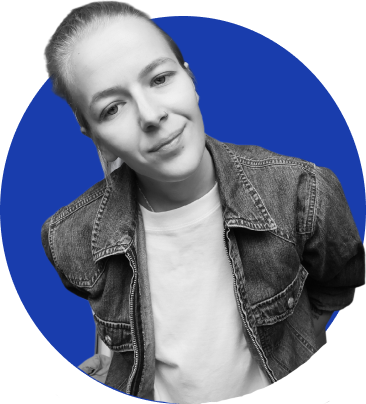
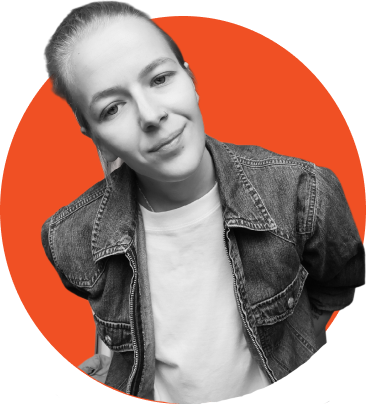
all theme

diff --git a/css/style.css b/css/style.css
@@ -16,8 +16,8 @@
 }
 
 html, body { 
-  background-color: #1B262C; 
-  color: #fff;
+  background-color: #f5f5f5; 
+  color: #343434;
   line-height: 1.6;  
   font-family: 'Exo 2', sans-serif;
 }
@@ -53,12 +53,13 @@ nav .mainMenu li a {
   padding: 20px;
   text-decoration: none;
   text-transform: uppercase;
-  color: #fff;
+  color: #343434;
   font-size: 16px;
+  font-weight: 600;
 }
 
 nav .mainMenu li a:hover{
-  color: #193DAD;
+  color: #F64E20;
   font-family: 'Exo 2', sans-serif;
   font-weight: 600;
   font-size: 20px;
@@ -94,7 +95,7 @@ nav .logo h3{
 
 /* Header */
 .hero {
-  background-color: #1B262C;
+  background-color: #f5f5f5;
   background-position: center;
   background-repeat: no-repeat;
   background-size: cover;
@@ -119,7 +120,7 @@ nav .logo h3{
 .content h1 {
   font-size: 60px;
   font-weight: 900;
-  color: #FFEA28; 
+  color: #343434; 
   text-align: center;
   
   
@@ -127,14 +128,14 @@ nav .logo h3{
 
 .content h2 {
   font-size: 45px;
-  color: #193DAD;
+  color: #343434;
   text-align: left;
   font-family: 'Exo 2', sans-serif;
   font-weight: bolder;
 }
 
 .content h1 span {
-  color: #FFEA28;
+  color: #F05024
 }
 
 /* .hero .content {
@@ -153,7 +154,7 @@ nav .logo h3{
 .about-me h1 {
   font-size: 600px;
   font-weight: 900;
-  color: #FFEA28; 
+  color: #F05024; 
   margin-top: 50px;
  
 }
@@ -162,7 +163,7 @@ nav .logo h3{
   margin-top: 30px;
   font-weight: 600;
   font-size: 35px;
-  color: #FFEA28;
+  color: #F05024;
 }
 
 .about-me ul {
@@ -173,6 +174,8 @@ nav .logo h3{
   padding: 0;
   text-align: left;
   padding: 0 30px;
+  color: #343434;
+  font-weight: 600;
 }
 
 .education h2 {
@@ -189,13 +192,16 @@ nav .logo h3{
 
 .columns-1 p {
   font-weight: 100;
+  color: #343434;
+  font-weight: 600;
   
 }
 
 .columns-2 p {
   margin-top: 20px;
   font-style: italic;
-  font-weight: 100;
+  font-weight: 600;
+  color: #343434;
 }
 
 
@@ -228,7 +234,7 @@ nav .logo h3{
   margin-top: 30px;
   font-weight: 900;
   font-size: 70px;
-  color: #FFEA28;
+  color: #F05024;
   text-align:center;
   text-align: center;
   
@@ -236,7 +242,7 @@ nav .logo h3{
 
 .icons h3 {
   font-weight: 600;
-  color: #Fff;
+  color: #343434;
   text-align:center;
   margin: 10px;
 
@@ -246,7 +252,7 @@ nav .logo h3{
 /* Projects */
 .box {
   cursor: pointer;
-  background-color: #193DAD;
+  background-color: #F05024;
   border: #FFFFFF 1px solid;
   border-radius: 10px;
   box-sizing: border-box;
@@ -265,7 +271,7 @@ nav .logo h3{
   left: 0;
   width: 100%;
   height: 100%;
-  background: rgba(0, 0, 0, 0.5);
+  background: rgba(0, 0, 0, 0.3);
   border-radius: 10px;
   z-index: -1;
   transition: transform 200ms ease-in;
@@ -301,7 +307,7 @@ nav .logo h3{
   margin-top: 60px;
   font-weight: 900;
   font-size: 70px;
-  color: #FFEA28;
+  color: #F05024;
   text-align:center;
 }
 
@@ -331,11 +337,12 @@ nav .logo h3{
 }
 
 .fab {
-  color: #fff;
+  color: #F64E20;
   padding: 15px;
+}
 
- 
-
+.red {
+  color: #F64E20;
 }
 
 .fab:hover{
@@ -357,10 +364,12 @@ nav .logo h3{
    
   .call h4 {
       margin-left: 20px;
+      color: #343434;
   }
   
   .mail h4 {
       margin-left: 20px;
+      color: #343434;
   }
   
   .fa-phone {
@@ -374,7 +383,7 @@ nav .logo h3{
   .columns-1 h1 {
       font-size: 70px;
       font-weight: 900;
-      color: #FFEA28
+      color: #F05024
   }
 
   .contact-me img {
@@ -389,13 +398,19 @@ nav .logo h3{
 .fas {
   padding: 10px;
   text-align: center;
-  color: #FFEA28;
+  color: #F64E20;
 }
 
 .far {
-  color: #FFEA28;
+  color: #F64E20;
 }
+
+
  
+
+/* Gallery94 */
+
+
 
 
 

diff --git a/galery94.html b/galery94.html
@@ -36,16 +36,23 @@
     </div>
 
     <!-- Content header -->
-    <div class="container-md">
+    <!-- <div class="container-md"> -->
       <div class="content">
         <div class="hero_pic">
-        <img src="./img/hero2.png" alt="">
+        <img src="./img/Gallery94/slika1.png" alt="">
         </div>
         <div class="hero_txt">
-        <h2>- I am Martina Dimkoska</h2>
-        <h1><span>UX & UI</span> Designer</h1>
+        <h3>Project name: Gallery 94</h3>
+        <h3>Type: E-shop</h3>
+        <h3>Year: 2021</h3>
+        <h3>My Role: UX & UI Design</h3>
+        <h3>Tool: Figma</h3>
+        
+        
+
+        
          </div>
-      </iv>
+      </div>
      
       <!-- <div class="buttons">
         <a href="#contact" class="button1">Get in Touch</a>
@@ -198,13 +205,13 @@
                 <div class="contact-icons">
                   <ul>
                     <div class="mail">
-                      <li><i class="fas fa-envelope fa-2x red"></i> </li>
+                      <li><i class="fas fa-envelope fa-2x"></i> </li>
                       <h4>Mail me</h4>
                     </div>
                     <p>martinadimkoska1@gmail.com</p>
 
                     <div class="call">
-                      <li><i class="fas fa-phone fa-2x red"></i></li>
+                      <li><i class="fas fa-phone fa-2x"></i></li>
                       <h4>Call me</h4>
                     </div>
                     <p>+38978261787</p>

diff --git a/css/utilities.css b/css/utilities.css
@@ -3,8 +3,8 @@
     cursor: pointer;
     display: inline-block;
     padding: 10px 30px;
-    background-color: #FFEA28;
-    color: #1F2D48;
+    background-color: #F64E20;
+    color: #fff;
     border-radius: 10px;
     font-family: 'Exo 2', sans-serif;
     text-decoration: none;
@@ -15,8 +15,8 @@
   }
   
   .button1:hover {
-    background-color: #FFEA28;
-    color:#7D42E4;
+    background-color: #343434;
+    color:#fff;
   }
   
   
@@ -43,9 +43,9 @@
   
   .button1 a {
     text-decoration: none;
-    color: #1F2D48;
+    color: #fff;
   }
-  z
+  
   
   /* Flex columns */
   .flex-columns .row {
@@ -101,6 +101,8 @@
       font-size: 18px;
       list-style: none;
       margin-right: 30px;
+      color: #343434;
+      font-weight: 500;
   }
 
   
